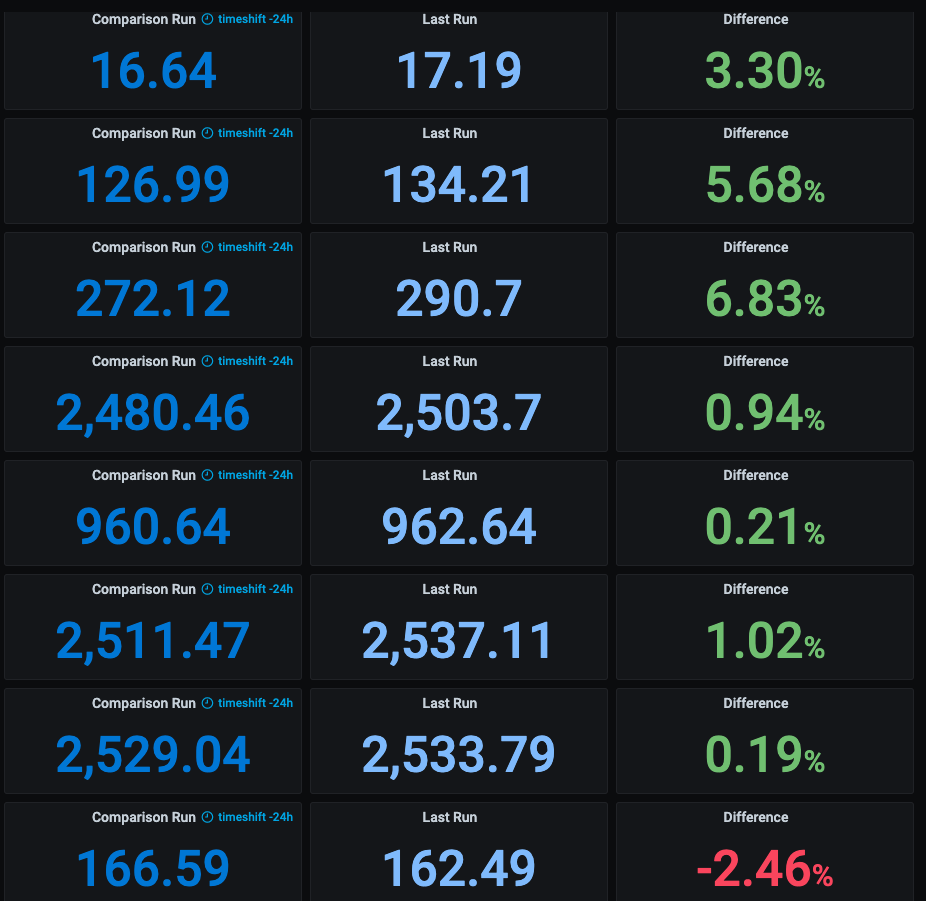
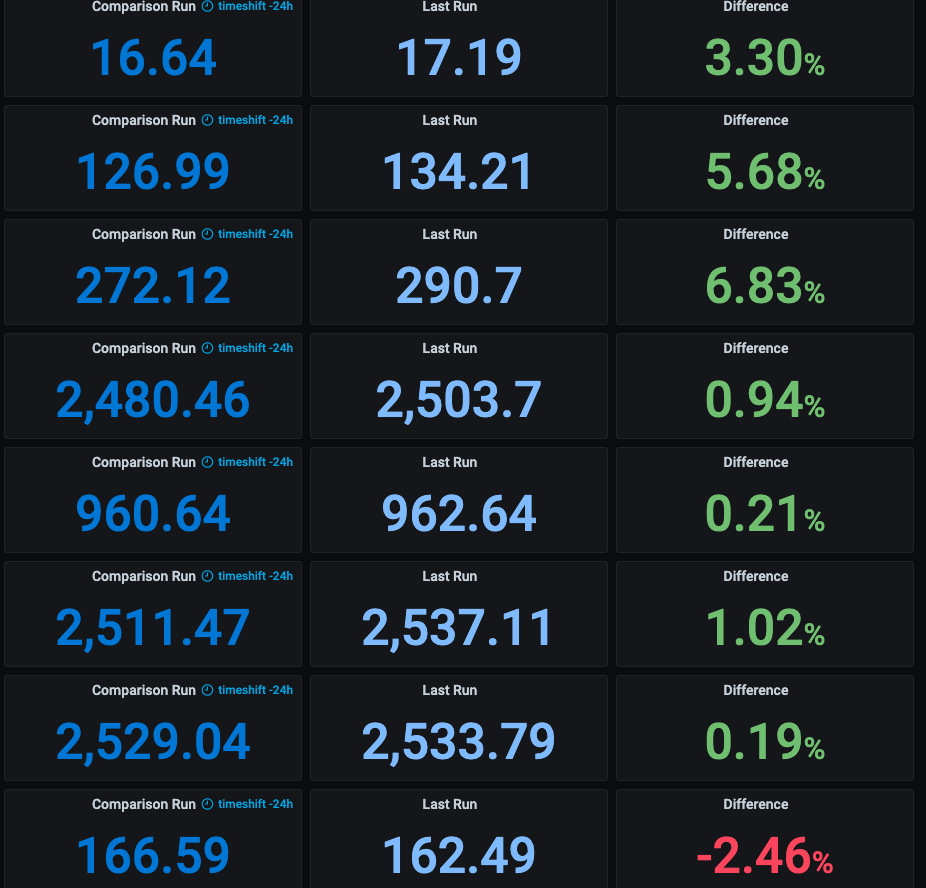
Fix JMeter image

diff --git a/content/posts/monitoring-corda-nodes/index.md b/content/posts/monitoring-corda-nodes/index.md
@@ -159,9 +159,7 @@ We set up a Grafana dashboard with metrics for each Corda node in our cluster. T
 
 We also have a dashboard with a summary of the results from our performance testing suite, which helps us inspect the results quickly and identify potential regressions. A part of it that shows throughput numbers for some of our test cases is shown below. This is made possible by sending data from our test suite running JMeter to InfluxDB using the [JMeter InfluxDB Backend Listener](https://jmeter.apache.org/usermanual/realtime-results.html).
 
-![JMeter Results Dashboard](img/jmeter-results-dashboard.png)
-
-{{< image src="img/full-emulator.png" alt="CHIP-8 Emulator" position="center" style="border-radius: 0.5em;" >}}
+{{< image src="img/jmeter-results-dashboard.png" alt="JMeter Results Dashboard" position="center" style="border-radius: 0.5em;" >}}
 
 The “Difference” column displays the results of a Flux query performed on our InfluxDB database, repeated for every test case using [Grafana’s variable feature](https://grafana.com/docs/grafana/latest/variables/repeat-panels-or-rows/). It calculates the difference in results of each test case between the currently specified run and a run that happened a certain time ago (in this example 24 hours ago).
 
